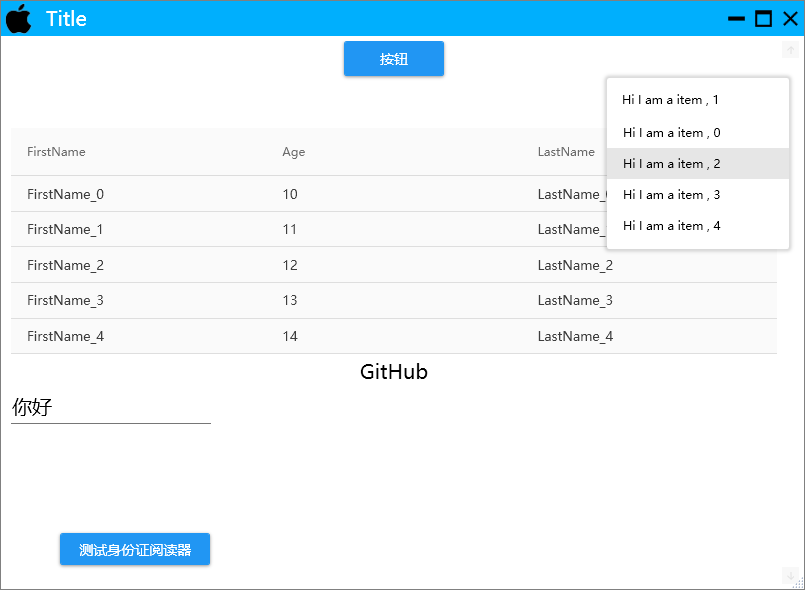
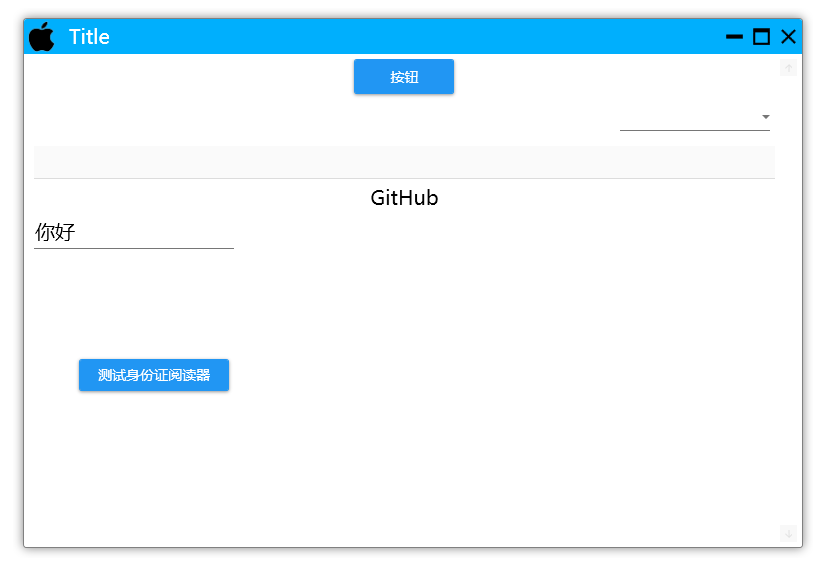
添加窗体阴影效果

diff --git a/WpfApp/Themes/WindowStyle.xaml b/WpfApp/Themes/WindowStyle.xaml
@@ -1,0 +1,48 @@
+<ResourceDictionary xmlns="http://schemas.microsoft.com/winfx/2006/xaml/presentation"
+                    xmlns:x="http://schemas.microsoft.com/winfx/2006/xaml"
+                    xmlns:s="clr-namespace:System;assembly=mscorlib"
+                    xmlns:local="clr-namespace:WpfApp.Resources">
+
+    <ControlTemplate x:Key="WindowTemplateKey" TargetType="{x:Type Window}">
+        <Border BorderBrush="{TemplateBinding BorderBrush}" BorderThickness="{TemplateBinding BorderThickness}" Background="{TemplateBinding Background}">
+            <Grid>
+                <AdornerDecorator>
+                    <ContentPresenter/>
+                </AdornerDecorator>
+                <ResizeGrip x:Name="WindowResizeGrip" HorizontalAlignment="Right" IsTabStop="false" Visibility="Hidden" VerticalAlignment="Bottom"
+                                Margin="10" Opacity="0"/>
+            </Grid>
+        </Border>
+        <ControlTemplate.Triggers>
+            <MultiTrigger>
+                <MultiTrigger.Conditions>
+                    <Condition Property="ResizeMode" Value="CanResizeWithGrip"/>
+                    <Condition Property="WindowState" Value="Normal"/>
+                </MultiTrigger.Conditions>
+                <Setter Property="Visibility" TargetName="WindowResizeGrip" Value="Visible"/>
+            </MultiTrigger>
+        </ControlTemplate.Triggers>
+    </ControlTemplate>
+
+    <Style x:Key="WindowStyle" TargetType="{x:Type Window}">
+        <Setter Property="Foreground" Value="{DynamicResource {x:Static SystemColors.WindowTextBrushKey}}"/>
+        <Setter Property="Background" Value="{DynamicResource {x:Static SystemColors.WindowBrushKey}}"/>
+        <Setter Property="Template">
+            <Setter.Value>
+                <ControlTemplate TargetType="{x:Type Window}">
+                    <Border BorderBrush="{TemplateBinding BorderBrush}" BorderThickness="{TemplateBinding BorderThickness}" Background="{TemplateBinding Background}">
+                        <AdornerDecorator>
+                            <ContentPresenter/>
+                        </AdornerDecorator>
+                    </Border>
+                </ControlTemplate>
+            </Setter.Value>
+        </Setter>
+        <Style.Triggers>
+            <Trigger Property="ResizeMode" Value="CanResizeWithGrip">
+                <Setter Property="Template" Value="{StaticResource WindowTemplateKey}"/>
+            </Trigger>
+        </Style.Triggers>
+    </Style>
+
+</ResourceDictionary>

diff --git a/WpfApp/MainWindow.xaml b/WpfApp/MainWindow.xaml
@@ -9,11 +9,14 @@
         ResizeMode="CanResizeWithGrip" 
         WindowStartupLocation="CenterScreen"
         WindowStyle="None" AllowsTransparency="True"  ShowInTaskbar="False"
-        Title="MainWindow" Height="550" Width="800" MinHeight="550" MinWidth="800">
+        Title="MainWindow" Height="550" Width="800" MinHeight="550" MinWidth="800"
+        Style="{DynamicResource WindowStyle}"
+        Template="{DynamicResource WindowTemplateKey}">
 
     <Window.Resources>
         <ResourceDictionary>
             <ResourceDictionary.MergedDictionaries>
+                <ResourceDictionary Source="/Themes/WindowStyle.xaml"/>
                 <ResourceDictionary Source="pack://application:,,,/MaterialDesignThemes.Wpf;component/Themes/MaterialDesignTheme.Light.xaml" />
                 <ResourceDictionary Source="pack://application:,,,/MaterialDesignThemes.Wpf;component/Themes/MaterialDesignTheme.Defaults.xaml" />
                 <ResourceDictionary Source="pack://application:,,,/MaterialDesignColors;component/Themes/Recommended/Primary/MaterialDesignColor.Blue.xaml" />
@@ -22,17 +25,26 @@
         </ResourceDictionary>
     </Window.Resources>
 
-    <Border BorderThickness="1" BorderBrush="Gray">
+    <Window.Background>
+        <SolidColorBrush Opacity="0.5"></SolidColorBrush>
+    </Window.Background>
+
+    <Border Name="WindowBorder" BorderThickness="1" BorderBrush="Gray" 
+            Margin="10" Background="White" CornerRadius="3">
+        <Border.Effect>
+            <DropShadowEffect Color="Black" BlurRadius="15" ShadowDepth="0" Opacity="0.5"/>
+        </Border.Effect>
         <Grid>
             <Grid.RowDefinitions>
                 <RowDefinition MaxHeight="35"></RowDefinition>
                 <RowDefinition Height="1*"></RowDefinition>
             </Grid.RowDefinitions>
             <!--Title Bar-->
+            <Border Background="#00affd" CornerRadius="2.5,2.5,0,0" MouseLeftButtonDown="NavBar_MouseLeftButtonDown"></Border>
             <StackPanel Grid.Row="0" MouseLeftButtonDown="NavBar_MouseLeftButtonDown"
                     Orientation="Horizontal" 
                         HorizontalAlignment="Stretch" 
-                        Background="#00affd" >
+                        >
                 <Image Margin="2" Source="/Resource/AppleLogo_32x32.png"></Image>
                 <TextBlock Text="Title" VerticalAlignment="Center" FontSize="20" Margin="10,0,0,0" Foreground="White"></TextBlock>
             </StackPanel>
